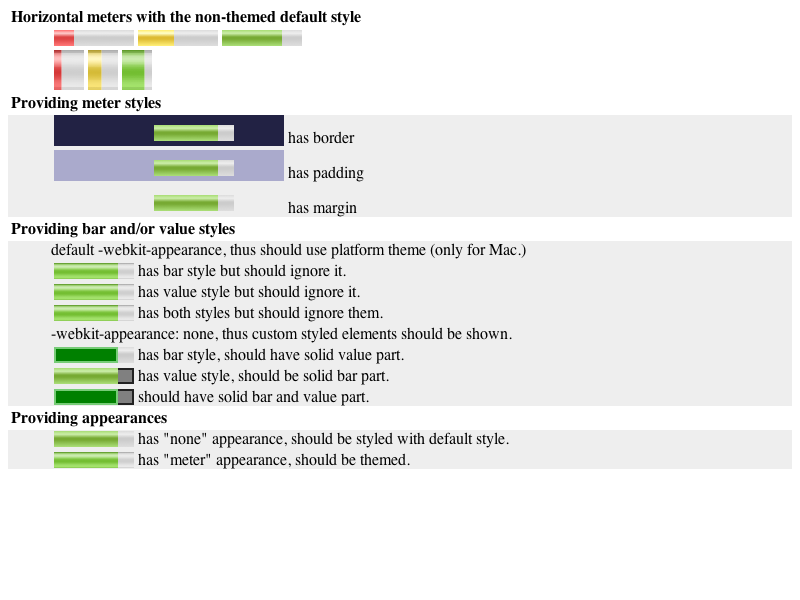
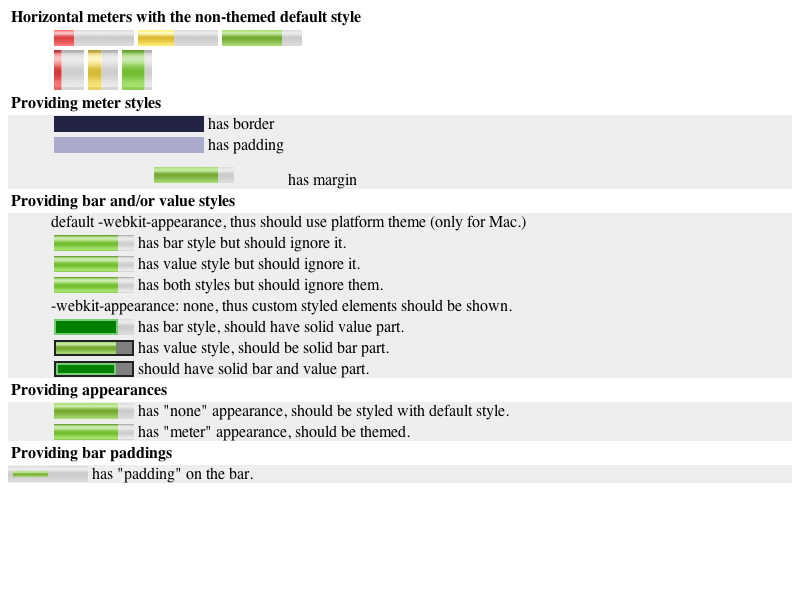
2011-04-04  MORITA Hajime  <morrita@google.com>
Reviewed by Dimitri Glazkov.

        Convert <meter> shadow DOM to a DOM-based shadow.
        https://bugs.webkit.org/show_bug.cgi?id=50661

        Updated expectations due to shadow structure chagne.
        Also updated meter-styles.html pixel result because the render tree is now laid out
        as normal flexboxes and its layout result is actually different,
        especially if there are non-zero borders on shadow elements.

        * fast/dom/HTMLMeterElement/meter-styles.html:
        * platform/mac/fast/dom/HTMLMeterElement/meter-styles-changing-pseudo-expected.txt:
        * platform/mac/fast/dom/HTMLMeterElement/meter-styles-expected.checksum:
        * platform/mac/fast/dom/HTMLMeterElement/meter-styles-expected.png:
        * platform/mac/fast/dom/HTMLMeterElement/meter-styles-expected.txt:
2011-04-04  MORITA Hajime  <morrita@google.com>

        Reviewed by Dimitri Glazkov.

        Convert <meter> shadow DOM to a DOM-based shadow.
        https://bugs.webkit.org/show_bug.cgi?id=50661

        Eliminated a large part of <meter> custom layout code,
        which is replaced by a shadow tree.
        Note that the shadow tree is created on construction time and
        will remain during the host HTMLMeterElement lifecycle.

        * Android.mk:
        * CMakeLists.txt:
        * GNUmakefile.am:
        * WebCore.gypi:
        * WebCore.pro:
        * WebCore.vcproj/WebCore.vcproj:
        * WebCore.xcodeproj/project.pbxproj:
[…]

Changed region(s): [[0.0, 0.18, 0.6562, 0.81]]

diff --git a/fast/dom/HTMLMeterElement/meter-styles.html b/fast/dom/HTMLMeterElement/meter-styles.html
@@ -12,6 +12,8 @@ if (window.layoutTestController)
   li { margin: 0.2em; list-style-type: none; }
   meter.barstyled::-webkit-meter-bar { background: gray; border-style: solid; border-width: 2px; border-color: #222; }
   meter.valstyled::-webkit-meter-optimum-value { background: green; border-style: solid; border-width: 2px; border-color: #7c7; }
+  meter#bar-paddings { -webkit-appearance: none; }
+  meter#bar-paddings::-webkit-meter-bar { padding: 5px; }
 </style>
 </head>
 <body>
@@ -53,6 +55,11 @@ if (window.layoutTestController)
   <ul>
     <li><meter style="-webkit-appearance: none" min="0" max="100" low="30" high="60" optimum="100" value="80" ></meter> has "none" appearance, should be styled with default style.</li> 
     <li><meter style="-webkit-appearance: meter" min="0" max="100" low="30" high="60" optimum="100" value="80" ></meter> has "meter" appearance, should be themed.</li>
+  </ul>
+  </div>
+  <h2>Providing bar paddings</h2>
+  <div style="background-color: #eee">
+    <meter id="bar-paddings" min="0" max="100" low="30" high="60" optimum="50" value="50" ></meter> has "padding" on the bar.
   </ul>
   </div>
 </body>
